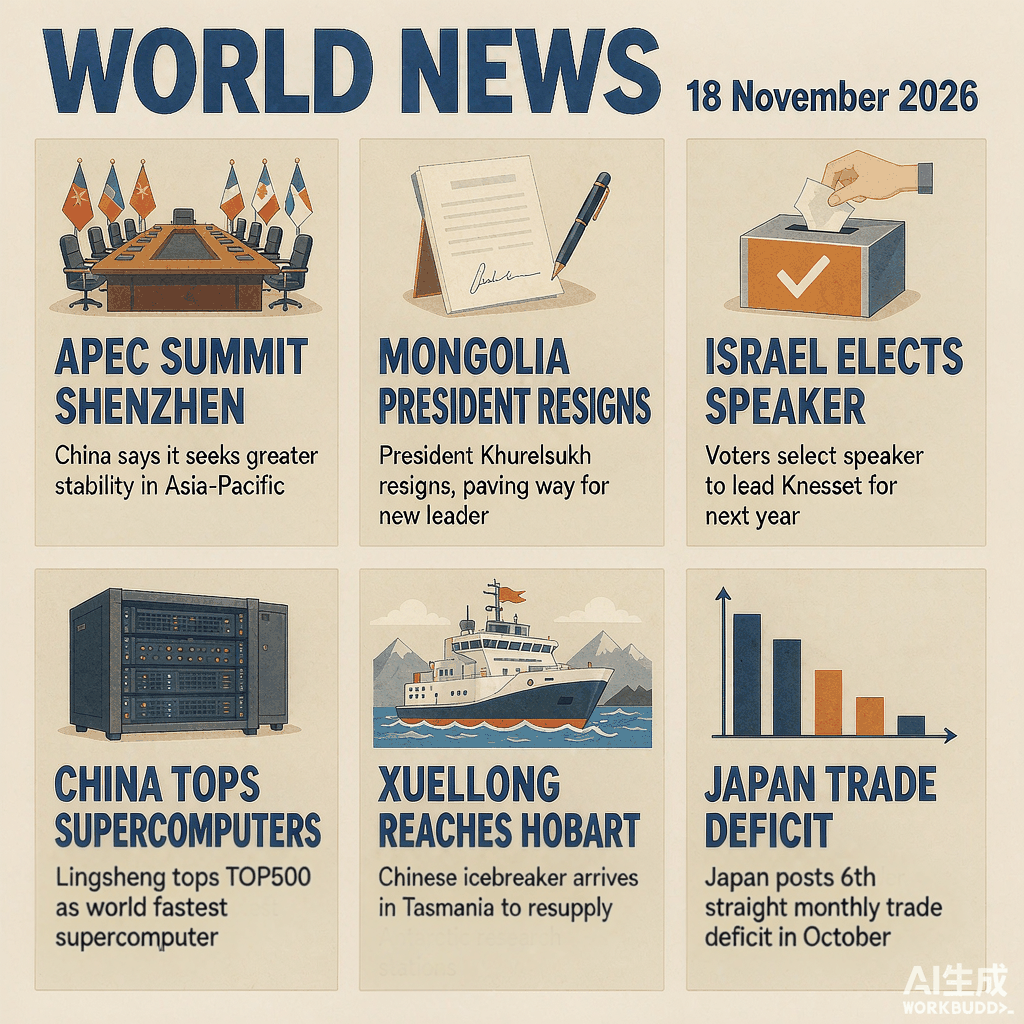
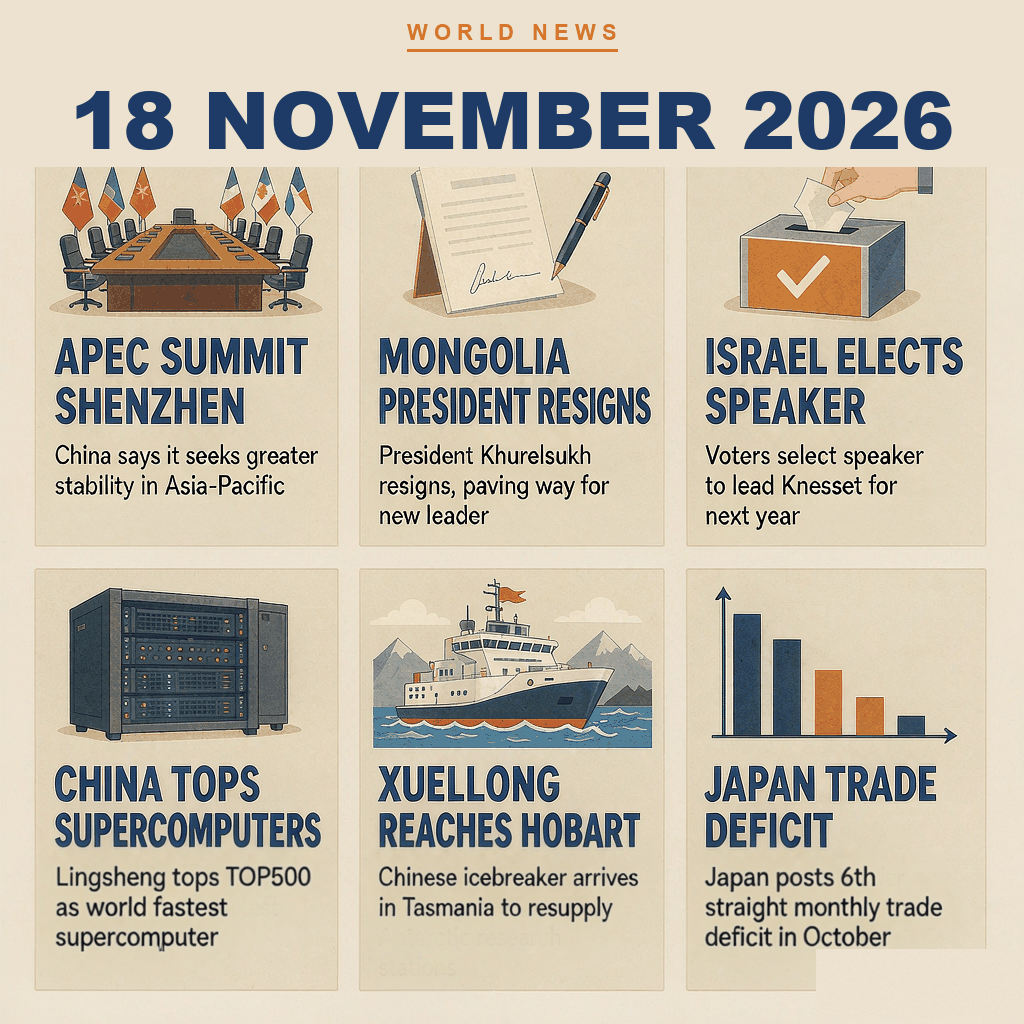
Make 18 November 2026 the dominant headline and clean the plate

Changed region(s): [[0.0312, 0.0, 0.9688, 0.1875], [0.875, 0.9375, 1.0, 1.0]]

diff --git a/.workbuddy/memory/2026-11-19.md b/.workbuddy/memory/2026-11-19.md
@@ -1,0 +1,17 @@
+# 2026-11-19 工作日志
+
+## 赏金任务 news-image-20261118（program/v1，无录制）—— 已提交保底版
+
+- 工作区：`E:/work ai/赏金/news18-work`；kit：`news-image-20261118-kit`（cli sha 前缀 63280bc7）。
+- **流程全部完成**：查 11-18 真新闻（WebSearch，多源交叉核对）→ ImageGen 出信息图 → 手写 main.ts（Write+Edit 各一次）→ 本地验证 → git commit/push → gh 建公开仓库 `yiyi218218-crypto/world-news-20261118` 并设 About → bundle → check（14 pass / 0 fail）→ submit（HTTP 202）。
+- **submission id**：`01a1f4ba-bc46-735a-9f13-943c15c39175`；claim code `AF-17ZTN-K3DSZ-P6F0F-A8BBZ`（私密）。
+- 提交时点：2026-11-19T16:54Z（北京 11-20 00:54），远早于截止 2026-11-20T00:00Z。status 确认 entries made 1 / kept 1，日配额剩 9、总配额剩 19。
+- 提交后状态：23 项校验全 pass，stage=checked，outcome=null（dev 阶段评分异步进行中，尚未出分）。需稍后 `makefun status --submission <id>` 轮询 provisional rate。
+
+### 关键坑与解法（下次同系列复用）
+1. **ImageGen 长 prompt 报 internal server error**：prompt 超过约 400 字符就 500。解法：短 prompt（<400 字符）一次成型；先用短 prompt 出带正确标题日期的干净底图，再短 prompt 图像编辑微调文字事实。
+2. **生成图字节超限**：1024×1024 原图 1.58 MiB > 1 MiB。装 Pillow 后 `im.convert('RGB').quantize(colors=256, method=MEDIANCUT, dither=NONE).save(optimize=True, compress_level=9)` 压到 725 KB，文字无损。flat 插画量化几乎不掉画质。
+3. **bundle `--prompt-origin typed` 失败**：WorkBuddy/CodeBuddy harness 把首条 user 消息包在 `<system-reminder>` 里，`isInjectedUser` 判为 injected，`openingPromptOf` 为空，typed 严格校验必然 FAIL。解法：改 `--prompt-origin other --prompt-via "...harness wraps first user message in system-reminder..."` + `--prompt-file prompt.txt`，run record 仍记录原文，check 全过。
+4. **model/provider 提取**：jsonl 里模型在 `providerData.model`（本次 `hy4-flash-free`，requestModelId `hy4flash-free`），顶层无 `model` 字段。provider 填 `tencent`（hy4 属腾讯命名空间），bundle 接受。harness=codebuddy, version=5.11.3。
+5. **作者性门禁**：thinking_own_work 要求 ≥30%，本次 55.1%（16/29 行自写）；thinking_revised 要求 main.ts ≥2 次写，Write+Edit 满足；thinking_turns 58。`.gitignore` 排除 prompt.txt/TASK.md/out/，避免读入污染作者性统计。
+6. **事实修正**：图里超算最初误写 Tianhe-3、日本逆差误写 with China，用图像编辑改成 Lingsheng / 6th straight monthly deficit，避免"忠于事实"扣分。
